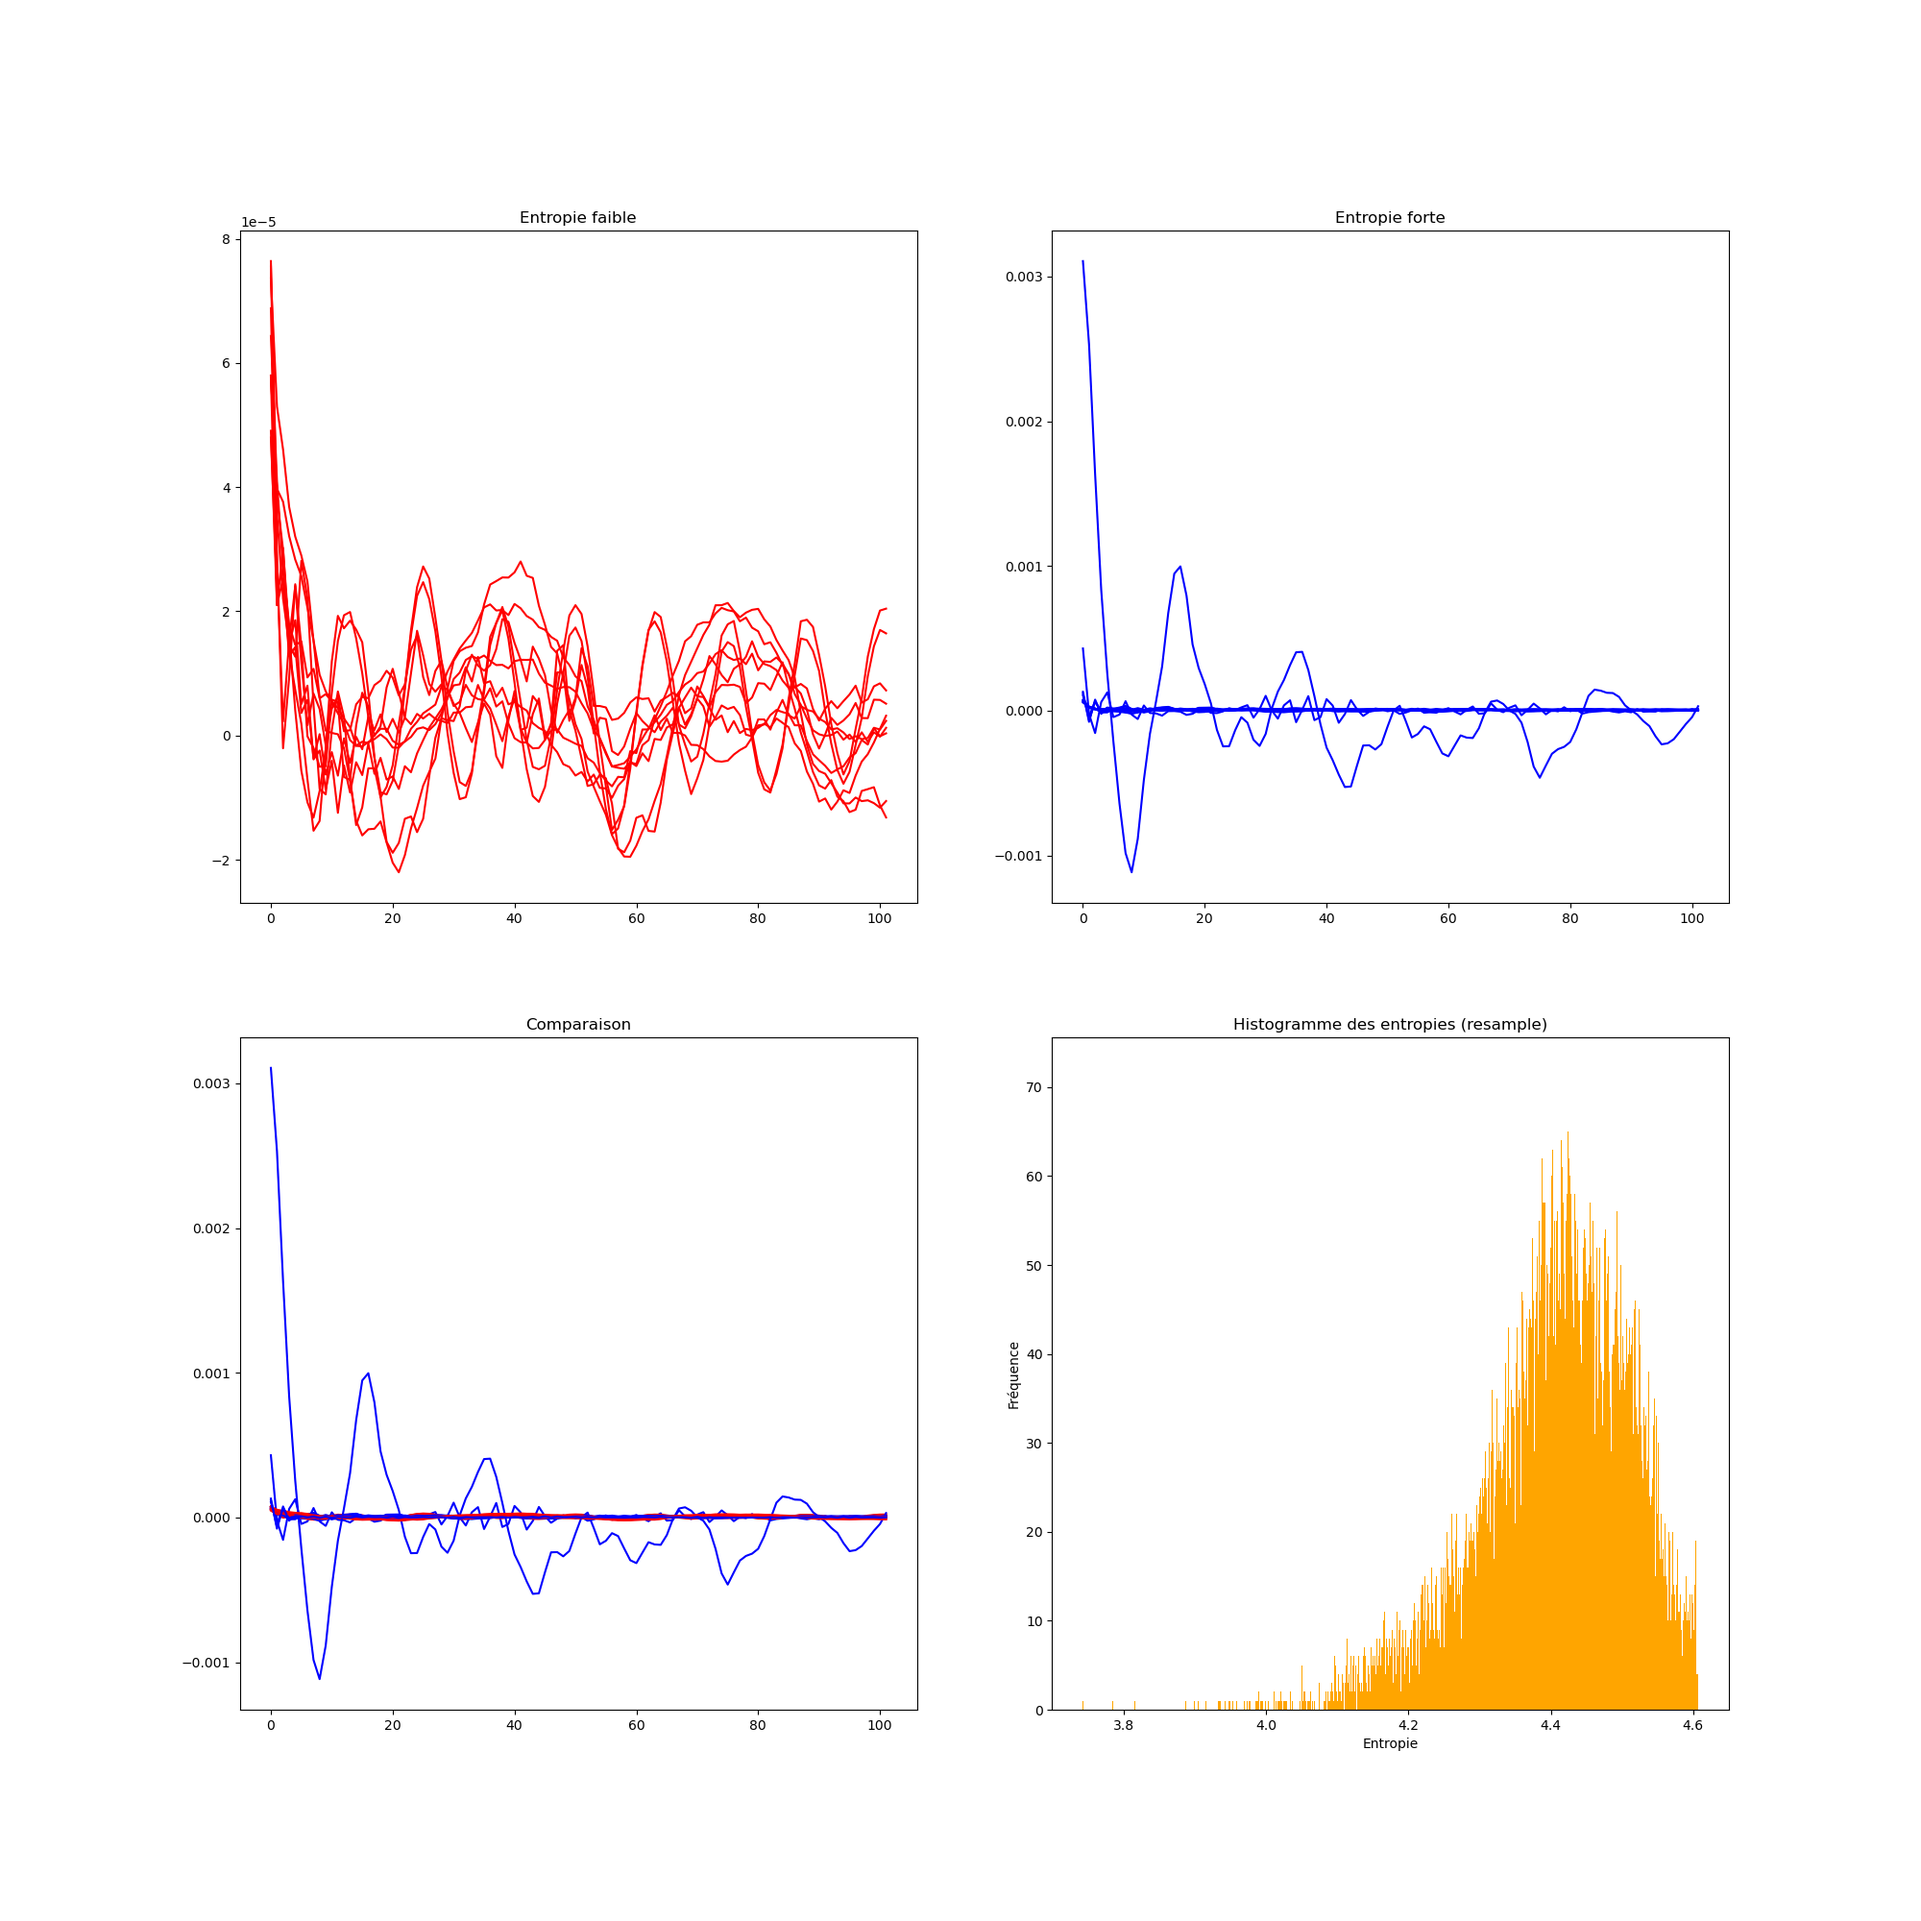
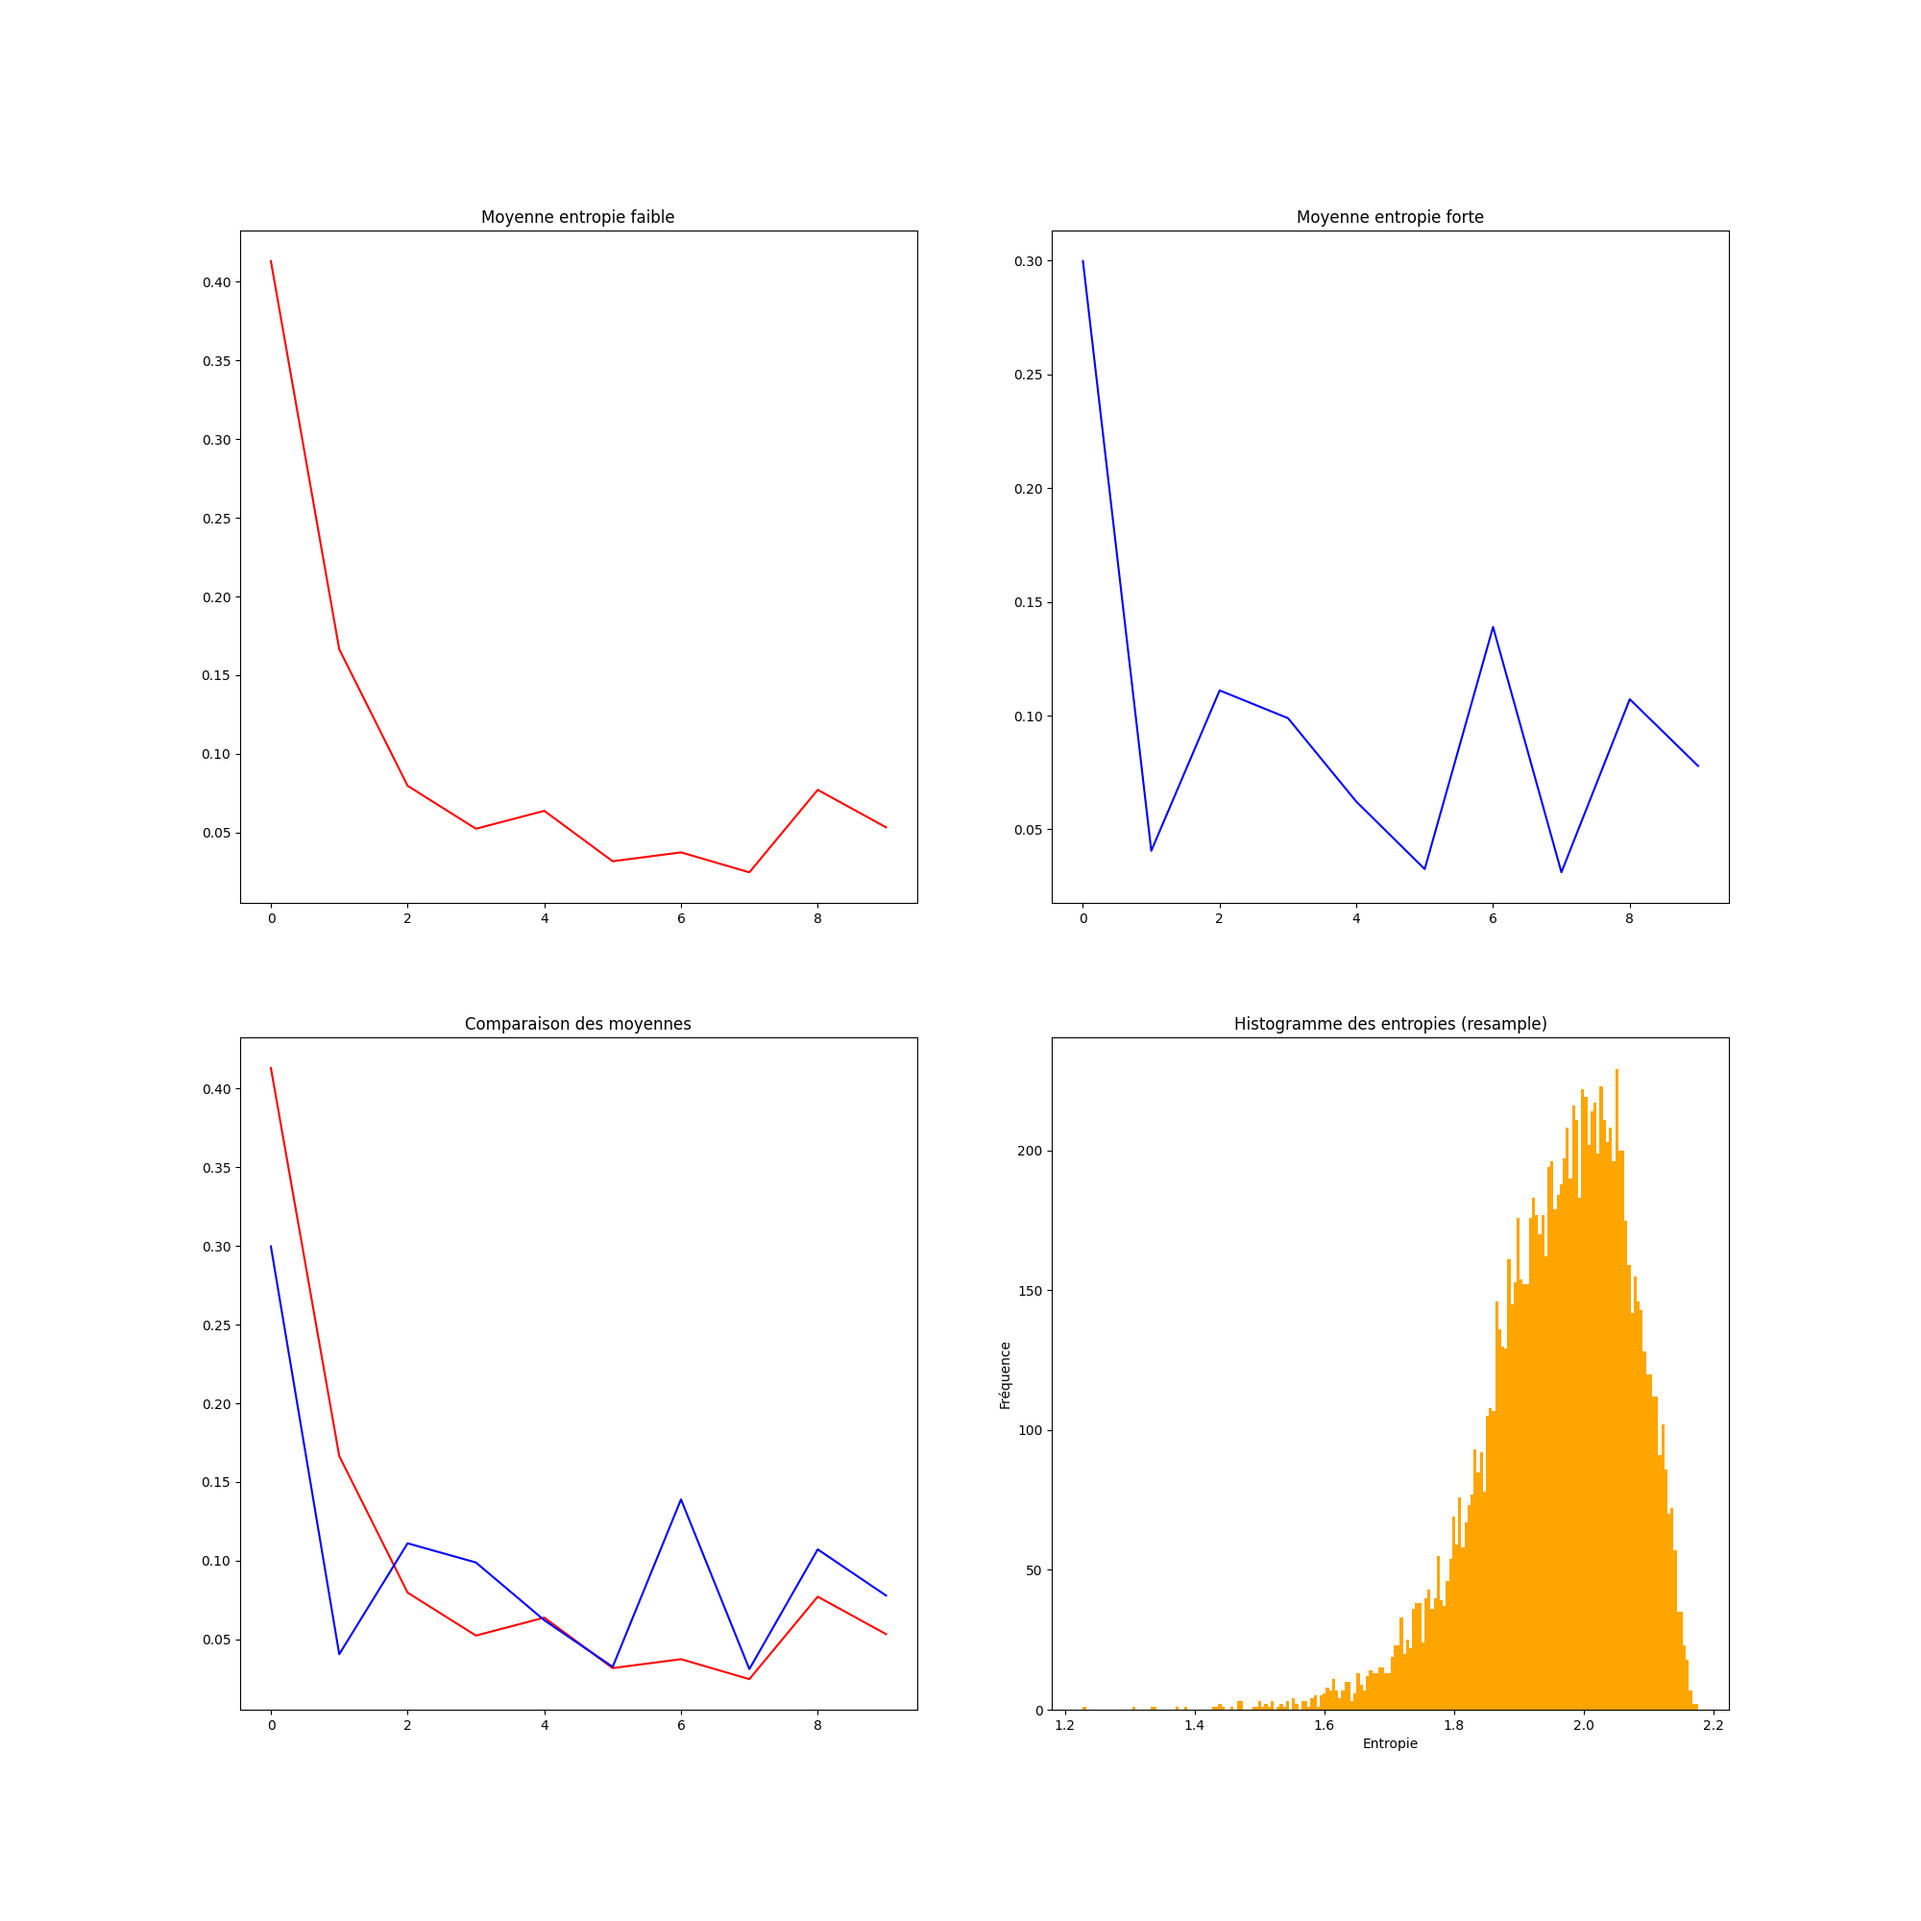
merci florian

diff --git a/M1/machine_learning/clustering.py b/M1/machine_learning/clustering.py
@@ -7,6 +7,7 @@ import scipy
 import os
 import sys
 import scipy.cluster.vq as vq
+from sklearn.manifold import TSNE
 
 os.chdir(os.path.dirname(__file__))
 
@@ -24,13 +25,15 @@ def matrice_entropies():
     matrice_resample = []
     entropies = []
     entropies_resample = []
-    pas = 512
+    e_faible = []
+    pas = 640
     for start in range(0, len(diff)-pas, pas):
         interval = diff[start : start + pas * 2]
 
         auto_corr = scipy.signal.correlate(interval, interval)
         # Symétrie de l'auto-corrélation donc on prend la moitié et garder le 1/20ème après.
         resamp_auto_corr = auto_corr[len(auto_corr)//2:len(auto_corr)//2 + len(auto_corr)//20]
+        resamp_auto_corr = scipy.signal.resample(resamp_auto_corr, 10)
 
         z_resample = resamp_auto_corr - min(resamp_auto_corr) + 1e-100 #sys.float_info.epsilon
         p_resample = z_resample / sum(z_resample)
@@ -41,34 +44,39 @@ def matrice_entropies():
         #H = scipy.stats.entropy(p)
 
         #entropies.append(H)
-        #matrice.append(auto_corr)
+        #matrice.append(p)
 
         entropies_resample.append(H_resample)
-        matrice_resample.append(resamp_auto_corr)
+        
+        #matrice_resample.append(resamp_auto_corr)
+        matrice_resample.append(p_resample)
 
-    #np.save("matrice.txt", matrice)
-    #np.save("entropies.txt", entropies)
-    #np.save("matrice_resample.txt", matrice_resample)
-    #np.save("entropies_resample.txt", entropies_resample)
+
+    np.save("matrice.txt", matrice)
+    np.save("entropies.txt", entropies)
+    np.save("matrice_resample.txt", matrice_resample)
+    np.save("entropies_resample.txt", entropies_resample)
+    np.save("e_faible.txt", e_faible)
     
-    return matrice, entropies, matrice_resample, entropies_resample
+    return matrice, entropies, matrice_resample, entropies_resample, e_faible
 
-matrice, entropies, matrice_resample, entropies_resample = matrice_entropies()
+#matrice, entropies, matrice_resample, entropies_resample, e_faible = matrice_entropies()
 
 
 
 #matrice = np.load("matrice.txt.npy")
 #entropies = np.load("entropies.txt.npy")
-#matrice_resample = np.load("matrice_resample.txt.npy")
-#entropies_resample = np.load("entropies_resample.txt.npy")
+
+matrice_resample = np.load("matrice_resample.txt.npy")
+entropies_resample = np.load("entropies_resample.txt.npy")
 
 
 #matrice = np.array(matrice)
 #cumsum_H = np.cumsum(entropies)
 
 entropies = np.array(entropies_resample)
-idx_faible_entropie = np.where(entropies < 4.5)
-idx_forte_entropie = np.where(entropies > 4.5)
+idx_faible_entropie = np.where(entropies < 1.6)
+idx_forte_entropie = np.where(entropies > 1.6)
 
 matrice = np.array(matrice_resample)
 mode_1 = matrice[idx_faible_entropie]
@@ -79,44 +87,60 @@ print("Mode 2: ", mode_2.shape)
 
 
 # Clustering
-union = mode_1#np.stack((mode_1, mode_2))
-union.reshape(-1, 2)
-whitened = scipy.cluster.vq.whiten(union)
-codebook,distorsion = scipy.cluster.vq.kmeans(whitened,2)
-print(codebook)
+#union = np.vstack((mode_1, mode_2))
+#union.reshape(-1, 2)
+#union = e_faible
 
-plt.scatter(whitened[:,0], whitened[:,1])
+tsne = TSNE(n_components=2, random_state=0, perplexity=30, max_iter=1000)
+mode_1_2d = tsne.fit_transform(mode_1)
+
+codebook,distorsion = scipy.cluster.vq.kmeans(mode_1_2d,2)
+#print(codebook)
+labels, _ = scipy.cluster.vq.vq(mode_1_2d, codebook)
+plt.scatter(mode_1_2d[:,0], mode_1_2d[:,1],c=labels)
 
 plt.scatter(codebook[:,0], codebook[:,1],c='r')
+
+plt.savefig("clustering.png")
 plt.show()
 
-labels, _ = scipy.cluster.vq.vq(union, codebook)
-
+plt.hist2d(mode_1_2d[:,0], mode_1_2d[:, 1])
+plt.show()
 
 fig = plt.figure(figsize=(20, 20))
+
+
+
 entropie_faible_plot = fig.add_subplot(221)
+moy_1 = 0
 for i in range(10):
-    entropie_faible_plot.plot(mode_1[i], 'r')
-entropie_faible_plot.set_title("Entropie faible")
+    #entropie_faible_plot.plot(mode_1[i], 'r')
+    moy_1 += mode_1[i]
+moy_1 = moy_1 / 10
+entropie_faible_plot.plot(moy_1, 'r')
+entropie_faible_plot.set_title("Moyenne entropie faible")
 
 entropie_forte_plot = fig.add_subplot(222)
+moy_2 = 0
 for i in range(10):
-    entropie_forte_plot.plot(mode_2[i], 'b')
-entropie_forte_plot.set_title("Entropie forte")
+    #entropie_forte_plot.plot(mode_2[i], 'b')
+    moy_2 += mode_2[i]
+moy_2 = moy_2 / 10
+entropie_forte_plot.plot(moy_2, 'b')
+entropie_forte_plot.set_title("Moyenne entropie forte")
 
 
 comparaison_plot = fig.add_subplot(223)
-for i in range(10):
-    comparaison_plot.plot(mode_1[i], 'r')
-    comparaison_plot.plot(mode_2[i], 'b')
+comparaison_plot.plot(moy_1, 'r')
+comparaison_plot.plot(moy_2, 'b')
 
-comparaison_plot.set_title("Comparaison")
+comparaison_plot.set_title("Comparaison des moyennes")
 
 
 
 hist = fig.add_subplot(224)
 
-hist.hist(entropies_resample, 1000, color='orange')
+hist.hist(entropies_resample, 200, color='orange')
 hist.set_title("Histogramme des entropies (resample)")
 hist.set_xlabel("Entropie")
 hist.set_ylabel("Fréquence")
